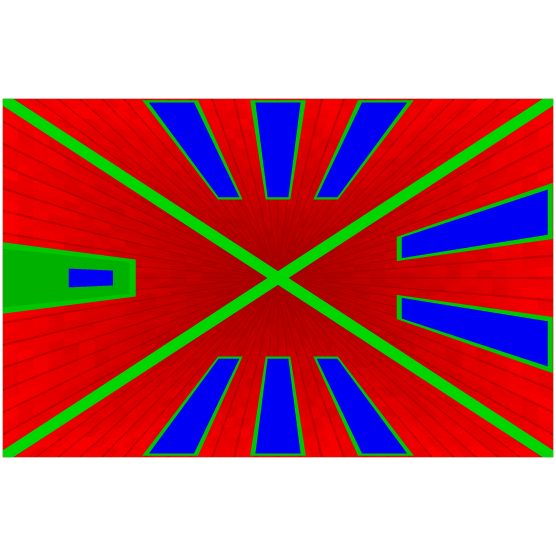
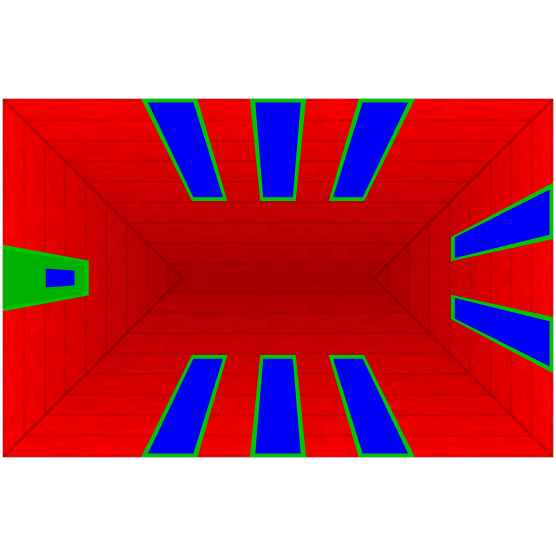
Angle rectangular house walls at 45 degrees.
Corner seams on the wall layer no longer run to the center, and they are a faint crease instead of a thick beam. Yurts and roofs stay as they were.

Changed region(s): [[0.0, 0.1529, 1.0, 0.8255]]

diff --git a/tools/gen_houses.py b/tools/gen_houses.py
@@ -16,10 +16,11 @@ Součet vah děleno krytím nese světlost, stejně jako u postavy:
 Barvy skládá godot/shaders/house_layer.gdshader. Průhledné pixely mají váhy 0,
 import proto nesmí opravovat okraje průhlednosti.
 
-Stěna je celá pod střechou. Z rohů (u jurty z obvodu) jdou čáry ke středu
-a rozdělí půdorys na stěny. Okno a dveře jsou lichoběžník: u obvodu širší,
-hrany míří do středu. Uprostřed obrazovky střecha stěnu zakryje. U kraje
-střecha ujede a vykoukne jen pás stěny, který zrovna míří ke kameře.
+Stěna je celá pod střechou. U obdélníku jdou rohy pod 45 stupni a uříznou
+stěnu; dlouhá stěna je lichoběžník, krátká trojúhelník. Čára rohu je jen
+slabý předěl. Okno a dveře jedou s tím úhlem, u obvodu jsou širší. U jurty
+jdou čáry z obvodu do středu. Uprostřed obrazovky střecha stěnu zakryje.
+U kraje střecha ujede a vykoukne jen pás stěny, který zrovna míří ke kameře.
 
 Náhled „u kraje“ je dům v rohu okna 1280×720. Posun je stejný jako
 ObjectLayers.PARALLAX.
@@ -213,30 +214,68 @@ def rect_sides(x: np.ndarray, y: np.ndarray, hx: float, hy: float) -> dict[str, 
     }
 
 
-def side_st(x: np.ndarray, y: np.ndarray, hx: float, hy: float, side: str) -> tuple[np.ndarray, np.ndarray]:
-    """s je podél stěny (−1..1), t je 0 na obvodu a 1 ve středu."""
-    if side == "south":
-        edge = np.clip(y / hy, 1e-4, None)
-        return (x / hx) / edge, 1.0 - y / hy
-    if side == "north":
-        edge = np.clip(-y / hy, 1e-4, None)
-        return (x / hx) / edge, 1.0 + y / hy
-    if side == "east":
-        edge = np.clip(x / hx, 1e-4, None)
-        return (y / hy) / edge, 1.0 - x / hx
-    edge = np.clip(-x / hx, 1e-4, None)
-    return (y / hy) / edge, 1.0 + x / hx
-
-
 def quad(mask: np.ndarray, s: np.ndarray, t: np.ndarray, s0: float, s1: float, t0: float, t1: float) -> np.ndarray:
     return mask & (s >= s0) & (s <= s1) & (t >= t0) & (t <= t1)
 
 
-def diagonal_posts(x: np.ndarray, y: np.ndarray, hx: float, hy: float, width: float) -> np.ndarray:
+def edge_distances(x: np.ndarray, y: np.ndarray, hx: float, hy: float) -> tuple[np.ndarray, np.ndarray, np.ndarray, np.ndarray]:
+    return hy + y, hx - x, hy - y, hx + x
+
+
+def miter_sides(x: np.ndarray, y: np.ndarray, hx: float, hy: float) -> dict[str, np.ndarray]:
+    """Stěny podle nejbližší hrany. Předěl sousedů je 45 stupňů, ne cesta do středu."""
     inside = (np.abs(x) <= hx) & (np.abs(y) <= hy)
-    d1 = np.abs(x * hy - y * hx) / math.hypot(hx, hy)
-    d2 = np.abs(x * hy + y * hx) / math.hypot(hx, hy)
-    return inside & ((d1 <= width) | (d2 <= width))
+    north_d, east_d, south_d, west_d = edge_distances(x, y, hx, hy)
+    return {
+        "south": inside & (south_d <= north_d) & (south_d <= east_d) & (south_d <= west_d),
+        "north": inside & (north_d < south_d) & (north_d <= east_d) & (north_d <= west_d),
+        "east": inside & (east_d < south_d) & (east_d < north_d) & (east_d <= west_d),
+        "west": inside & (west_d < south_d) & (west_d < north_d) & (west_d < east_d),
+    }
+
+
+def miter_ud(x: np.ndarray, y: np.ndarray, hx: float, hy: float, side: str) -> tuple[np.ndarray, np.ndarray]:
+    """u je 0..1 podél stěny, depth je vzdálenost od obvodu v px. Bok se zužuje pod 45°."""
+    if side == "south":
+        depth = hy - y
+        left = -hx + depth
+        span = hx - depth
+    elif side == "north":
+        depth = hy + y
+        left = -hx + depth
+        span = hx - depth
+        return (x - left) / np.maximum(2.0 * span, 1e-3), depth
+    elif side == "east":
+        depth = hx - x
+        left = -hy + depth
+        span = hy - depth
+        return (y - left) / np.maximum(2.0 * span, 1e-3), depth
+    else:
+        depth = hx + x
+        left = -hy + depth
+        span = hy - depth
+        return (y - left) / np.maximum(2.0 * span, 1e-3), depth
+    return (x - left) / np.maximum(2.0 * span, 1e-3), depth
+
+
+def miter_seams(x: np.ndarray, y: np.ndarray, hx: float, hy: float, width: float) -> np.ndarray:
+    """Jen předěl sousedních stěn. Protější stěny uprostřed čáru nemají."""
+    inside = (np.abs(x) <= hx) & (np.abs(y) <= hy)
+    north_d, east_d, south_d, west_d = edge_distances(x, y, hx, hy)
+
+    def crease(a: np.ndarray, b: np.ndarray, *farther: np.ndarray) -> np.ndarray:
+        on_line = np.abs(a - b) <= width
+        closest = on_line
+        for other in farther:
+            closest = closest & (a <= other + width)
+        return closest
+
+    return inside & (
+        crease(north_d, east_d, south_d, west_d)
+        | crease(north_d, west_d, south_d, east_d)
+        | crease(south_d, east_d, north_d, west_d)
+        | crease(south_d, west_d, north_d, east_d)
+    )
 
 
 def wall_lengths(house: House) -> dict[str, float]:
@@ -268,54 +307,56 @@ def paint_opening(
     channel: int,
     shade: float,
     frame: float = 0.0,
+    depth_pad: float = 0.02,
 ) -> None:
     if frame > 0.0:
-        pad_s = frame
-        pad_t = frame * 0.65
-        mask.fill(quad(where, s, t, s0 - pad_s, s1 + pad_s, max(0.0, t0 - pad_t), t1 + pad_t), WOOD, 0.72)
+        mask.fill(quad(where, s, t, s0 - frame, s1 + frame, max(0.0, t0 - depth_pad), t1 + depth_pad), WOOD, 0.72)
     mask.fill(quad(where, s, t, s0, s1, t0, t1), channel, shade)
 
 
 def paint_rect_wall(mask: Mask, x: np.ndarray, y: np.ndarray, house: House) -> None:
     hx, hy = m(house.width) / 2.0, m(house.depth) / 2.0
-    sides = rect_sides(x, y, hx, hy)
+    sides = miter_sides(x, y, hx, hy)
+    depth_limit = min(hx, hy)
     salt = sum(ord(char) for char in house.name)
+    course = m(0.32)
     for side, where in sides.items():
-        s, t = side_st(x, y, hx, hy, side)
-        length = wall_lengths(house)[side]
-        boards = max(4, int(length / 0.34))
-        groove = np.abs(np.mod(s * boards + 1.0, 2.0) - 1.0) < 0.11
-        grain = hash01(np.floor(s * boards), np.floor(t * 18.0), salt + len(side))
-        shade = (0.58 + 0.42 * (1.0 - np.clip(t, 0.0, 1.0))) * np.where(groove, 0.78, 1.0)
-        shade = shade * (0.9 + 0.1 * grain)
+        u, depth = miter_ud(x, y, hx, hy, side)
+        t = np.clip(depth / depth_limit, 0.0, 1.0)
+        groove = (np.mod(depth, course) < m(0.035)) & (depth > 1.0)
+        grain = hash01(np.floor(u * 32.0), np.floor(depth / 4.0), salt + len(side))
+        shade = (0.58 + 0.42 * (1.0 - t)) * np.where(groove, 0.88, 1.0)
+        shade = shade * (0.92 + 0.08 * grain)
         mask.fill(where, WALL, shade)
 
-    mask.fill(diagonal_posts(x, y, hx, hy, m(0.09)), WOOD, 0.8)
+    seam = miter_seams(x, y, hx, hy, m(0.035)) & (mask.cover > 0.0)
+    mask.shade[seam] *= 0.78
 
     for side, where in sides.items():
-        s, t = side_st(x, y, hx, hy, side)
+        u, depth = miter_ud(x, y, hx, hy, side)
+        t = depth / depth_limit
         length = wall_lengths(house)[side]
         door = side == "west"
         if door:
-            half = DOOR_W / length
-            paint_opening(mask, where, s, t, -half, half, 0.0, 0.46, WOOD, 0.62, frame=0.035)
+            half = (DOOR_W / 2.0) / length
+            paint_opening(mask, where, u, t, 0.5 - half, 0.5 + half, 0.0, 0.46, WOOD, 0.62, frame=0.06 / length)
             pane = half * 0.42
-            paint_opening(mask, where, s, t, -pane, pane, 0.24, 0.40, GLASS, 0.95)
-        span = WINDOW_W / length
+            paint_opening(mask, where, u, t, 0.5 - pane, 0.5 + pane, 0.24, 0.40, GLASS, 0.95)
+        half = (WINDOW_W / 2.0) / length
         for center in window_centers(length, door):
-            mid = center / (length / 2.0)
+            mid = 0.5 + center / length
             paint_opening(
                 mask,
                 where,
-                s,
+                u,
                 t,
-                mid - span,
-                mid + span,
+                mid - half,
+                mid + half,
                 0.02,
                 0.55,
                 GLASS,
                 0.95,
-                frame=WINDOW_W / length * 0.22,
+                frame=0.08 / length,
             )
 
 
